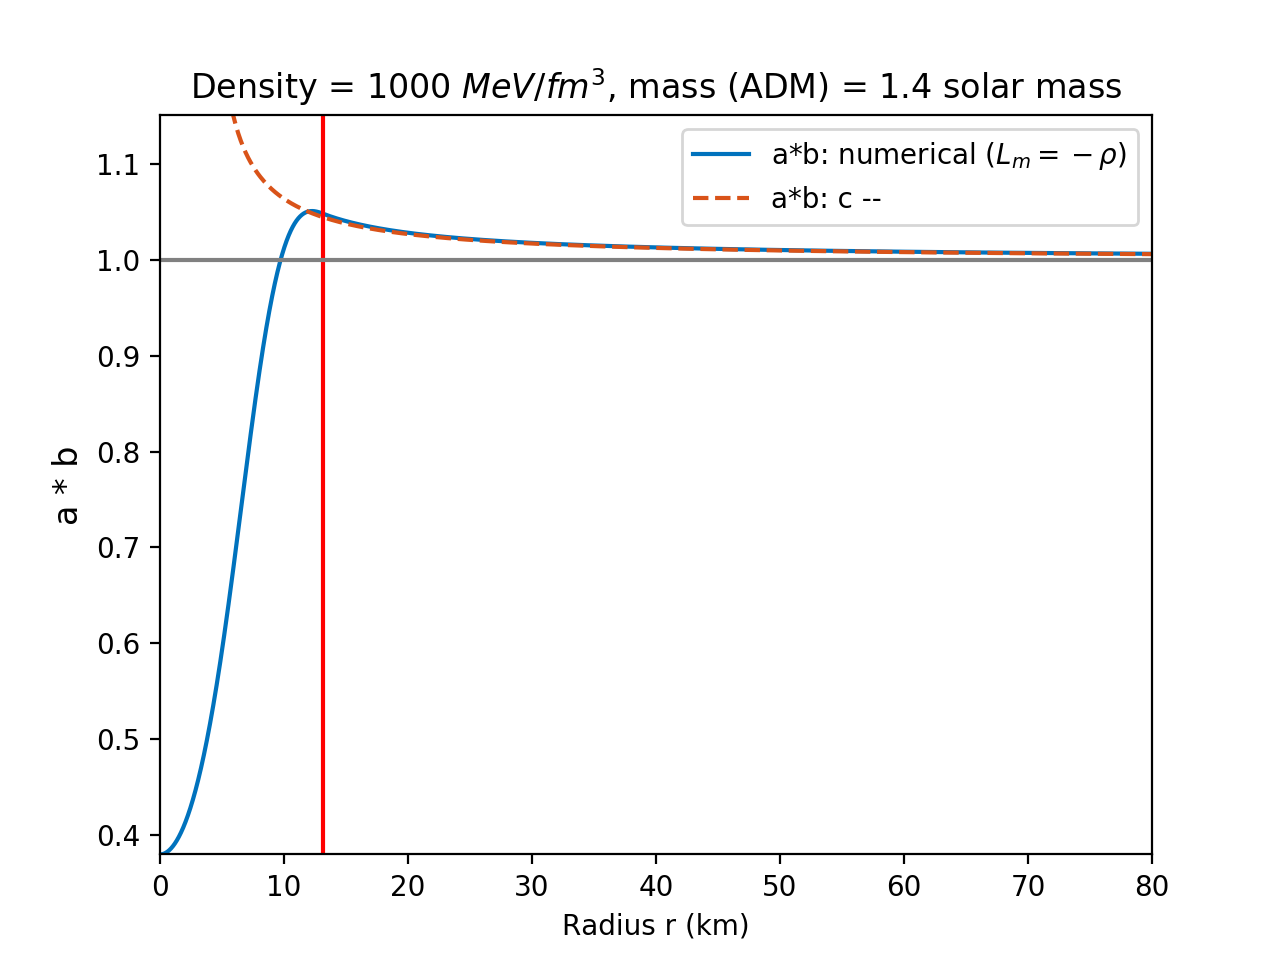
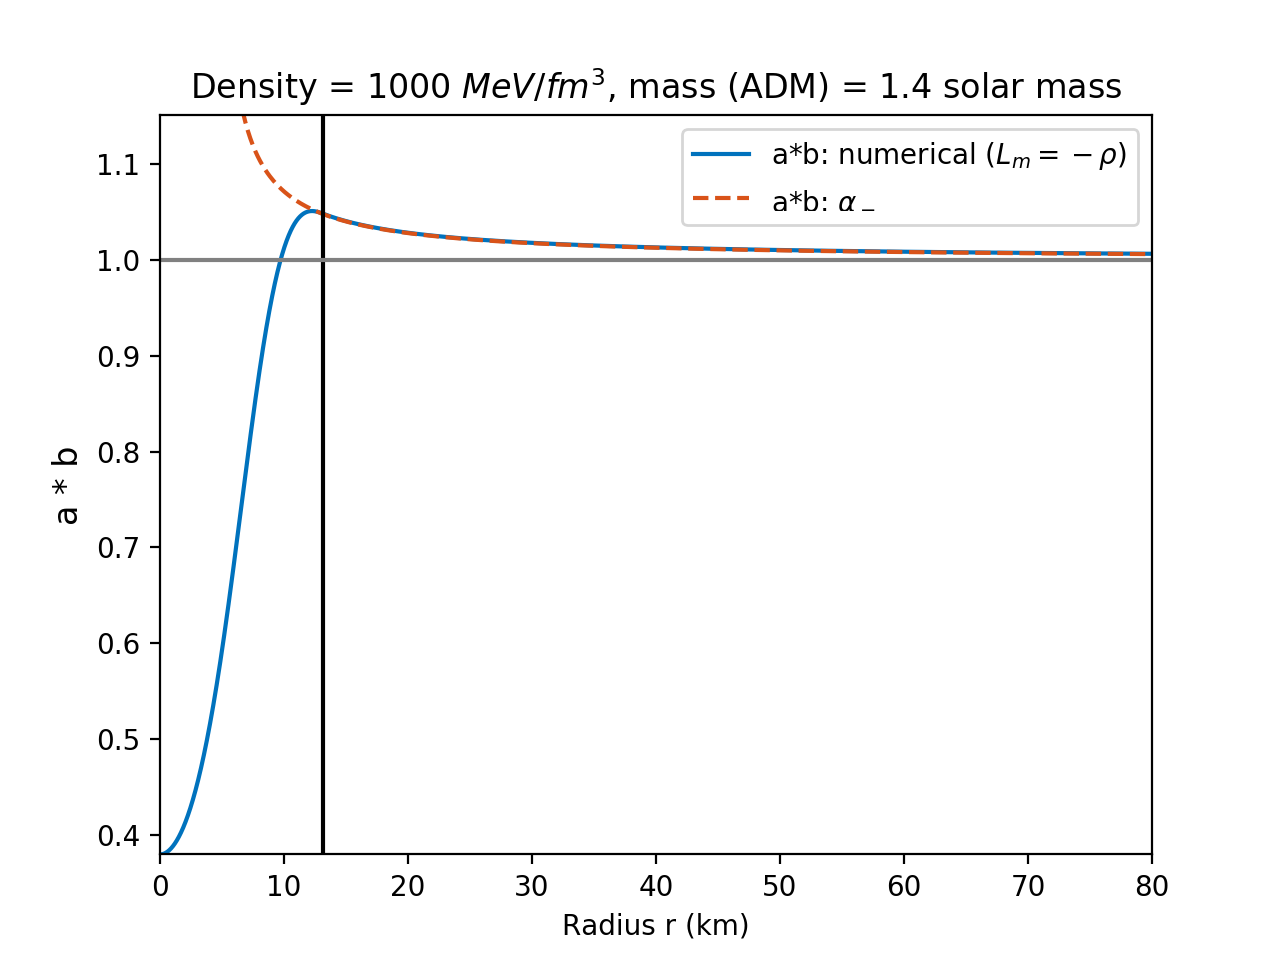
update figures that match draft v210507

diff --git a/Get_all_figures.py b/Get_all_figures.py
@@ -92,80 +92,53 @@ def run(opti,rho_cen):
     r_lim = 80000
     if option == 1:
         couleur = (0.85,0.325,0.098)
-        nom = 'c --'
+        nom = '$\\alpha_-$'
+        alphag = gamma
     elif option == 2:
         couleur = (0.929,0.694,0.125)
-        nom = 'c -+'
+        nom = '$\\alpha_+$'
+        alphag = - gamma
 
-    return (r,a,b,phi,rho_u,a_u,phi_u,b_u,couleur,nom, comment,radiusStar,r_lim,descr,mass_ADM,rho_cen)
-
-
-# In[3]:
+    return (r,a,b,phi,rho_u,a_u,phi_u,b_u,couleur,nom, comment,radiusStar,r_lim,descr,mass_ADM,rho_cen,alphag)
 
 
-def make_plots(option,r,a,b,phi,rho_u,a_u,phi_u,b_u,couleur,nom, comment,radiusStar,r_lim,descr,mass_ADM,rho_cen):
-    plt.plot(r*1e-3,a,label=f'a: numerical ({comment})',color=(0.,0.447,0.741))
-    plt.plot(rho_u*1e-3,a_u,linestyle='dashed',label = f'a: {nom}',color = couleur)
-    plt.axvline(x=radiusStar*1e-3, color='r')
-    plt.xlim([0,r_lim*1e-3])
-    plt.ylim([a[0],1])
-    plt.xlabel('Radius r (km)')
-    plt.ylabel('a', fontsize=12)
-    plt.title(f'Density = {rho_cen} $MeV/fm^3$, mass (ADM) = {mass_ADM:.1f} solar mass', loc='center')
-    plt.legend()
-    plt.savefig(f'figures/a_{descr}_{rho_cen:.0f}_{mass_ADM:.1f}.png', dpi = 200)
-    plt.show()
+# In[10]:
+
+
+def make_plots(option,r,a,b,phi,rho_u,a_u,phi_u,b_u,couleur,nom, comment,radiusStar,r_lim,descr,mass_ADM,rho_cen,gamma):
+
 
     a_interpol = interp1d(rho_u, a_u, fill_value="extrapolate")
     diff_a = (a_interpol(r)-a) / a
 
 
-    plt.plot(r*1e-3,diff_a*100,label=f'a (numerical({comment}) - {nom}) in %',color=(0.,0.447,0.741))
-    plt.axvline(x=radiusStar*1e-3, color='r')
-    plt.axhline(y= 0, color = 'gray')
-    plt.xlim([0,r_lim*1e-3])
-    # plt.ylim([-0.01,0.01])
-    plt.ylim([-1,1])
-    plt.xlabel('Radius r (km)')
-    plt.ylabel('(a_num - a_ana) %', fontsize=12)
-    plt.title(f'Density = {rho_cen} $MeV/fm^3$, mass (ADM) = {mass_ADM:.1f} solar mass', loc='center')
-    plt.legend()
-    plt.savefig(f'figures/diff_a_{descr}_{rho_cen:.0f}_{mass_ADM:.1f}.png', dpi = 200)
-    plt.show()
-
-    plt.plot(r*1e-3,b,label=f'b: numerical ({comment})',color=(0.,0.447,0.741))
-    plt.plot(rho_u*1e-3,b_u,linestyle='dashed',label = f'b: {nom}',color = couleur)
-    plt.axvline(x=radiusStar*1e-3, color='r')
-    plt.xlim([0,r_lim*1e-3])
-    plt.ylim([b[0],max(b)+0.1])
-    plt.xlabel('Radius r (km)')
-    plt.ylabel('b', fontsize=12)
-    plt.title(f'Density = {rho_cen} $MeV/fm^3$, mass (ADM) = {mass_ADM:.1f} solar mass', loc='center')
-    plt.legend()
-    plt.savefig(f'figures/b_{descr}_{rho_cen:.0f}_{mass_ADM:.1f}.png', dpi = 200)
-    plt.show()
-
     b_interpol = interp1d(rho_u, b_u, fill_value="extrapolate")
     diff_b = (b_interpol(r)-b) / b
 
+    ab_interpol = interp1d(rho_u, a_u * b_u, fill_value="extrapolate")
+    diff_ab = (ab_interpol(r)- a * b) / (a * b)
 
-    plt.plot(r*1e-3,diff_b*100,label=f'b (numerical({comment}) - {nom}) in %',color=(0.,0.447,0.741))
-    plt.axvline(x=radiusStar*1e-3, color='r')
-    plt.axhline(y= 0, color = 'gray')
+    phi_interpol = interp1d(rho_u, phi_u, fill_value="extrapolate")
+    diff_phi = (phi_interpol(r)-phi) / phi
+
+
+    plt.plot(r*1e-3,a*b,label=f'a*b: numerical ({comment})',color=(0.,0.447,0.741))
+    plt.plot(rho_u*1e-3,a_u*b_u,linestyle='dashed',label = f'a*b: {nom}',color = couleur)
+    plt.axvline(x=radiusStar*1e-3, color='black')
+    plt.axhline(y= 1, color = 'gray')
     plt.xlim([0,r_lim*1e-3])
-    # plt.ylim([-0.01,0.01])
-#     plt.ylim([-5,5])
-    plt.ylim([-3,3])
+    plt.ylim([a[0]*b[0],max(a*b)+0.1])
     plt.xlabel('Radius r (km)')
-    plt.ylabel('(b_num - b_ana) %', fontsize=12)
+    plt.ylabel('a * b', fontsize=12)
     plt.title(f'Density = {rho_cen} $MeV/fm^3$, mass (ADM) = {mass_ADM:.1f} solar mass', loc='center')
     plt.legend()
-    plt.savefig(f'figures/diff_b_{descr}_{rho_cen:.0f}_{mass_ADM:.1f}.png', dpi = 200)
+    plt.savefig(f'figures/ab_{descr}_{rho_cen:.0f}_{mass_ADM:.1f}.png', dpi = 200)
     plt.show()
+
 
     plt.plot(r*1e-3,phi,label=f'$\\Phi$: numerical({comment})',color=(0.,0.447,0.741))
     plt.plot(rho_u*1e-3,phi_u,linestyle='dashed',label= f'$\\Phi$: {nom}',color= couleur)
-    plt.axvline(x=radiusStar*1e-3, color='r')
+    plt.axvline(x=radiusStar*1e-3, color='black')
     plt.xlim([0,r_lim*1e-3])
     if option == 1:
         limitaY = [phi[0],1.01]
@@ -179,75 +152,126 @@ def make_plots(option,r,a,b,phi,rho_u,a_u,phi_u,b_u,couleur,nom, comment,radiusS
     plt.savefig(f'figures/phi_{descr}_{rho_cen:.0f}_{mass_ADM:.1f}.png', dpi = 200)
     plt.show()
 
-    phi_interpol = interp1d(rho_u, phi_u, fill_value="extrapolate")
-    diff_phi = (phi_interpol(r)-phi) / phi
-
-
-    plt.plot(r*1e-3,diff_phi*100,label=f'$\\Phi$ (numerical({comment}) - {nom}) in %',color=(0.,0.447,0.741))
-    plt.axvline(x=radiusStar*1e-3, color='r')
+    
+    diff_a_wo_offset = diff_a - diff_a[-1]  
+    diff_b_wo_offset = diff_b - diff_b[-1]  
+    diff_phi_wo_offset = diff_phi - diff_phi[-1]
+    
+    plt.plot(r*1e-3,diff_a_wo_offset*100,label=f'$a$ (numerical({comment}) - {nom}) in %\n(Offset = {diff_a[-1]*100:.2f}%)',color=(0.85,0.325,0.098))
+#     plt.plot(r*1e-3,diff_b_wo_offset*100,label=f'$b$ (numerical({comment}) - {nom}) in %\n(Offset = {diff_b[-1]*100:.2f}\%)',color=(0.,0.447,0.741))
+    plt.plot(r*1e-3,diff_b*100,label=f'$b$ (numerical({comment}) - {nom}) in %',color=(0.,0.447,0.741), linestyle='dashed')
+#     plt.plot(r*1e-3,diff_phi*100,label=f'$\\Phi$ (numerical({comment}) - {nom}) in %',color=(0.929,0.694,0.125), linestyle='dashdot')
+    plt.plot(r*1e-3,diff_phi_wo_offset*100,label=f'$\\Phi$ (numerical({comment}) - {nom}) in %\n(Offset = {diff_phi[-1]*100:.2f}%)',color=(0.929,0.694,0.125), linestyle='dashdot')
+    plt.axvline(x=radiusStar*1e-3, color='black')
     plt.axhline(y= 0, color = 'gray')
     plt.xlim([0,r_lim*1e-3])
-    # plt.ylim([-0.01,0.01])
-    plt.ylim([-1,1])
-    plt.xlabel('Radius r (km)')
-    plt.ylabel('($\\Phi$_num - $\\Phi$_ana) %', fontsize=12)
-    plt.title(f'Density = {rho_cen} $MeV/fm^3$, mass (ADM) = {mass_ADM:.1f} solar mass', loc='center')
-    plt.legend()
-    plt.savefig(f'figures/diff_phi_{descr}_{rho_cen:.0f}_{mass_ADM:.1f}.png', dpi = 200)
-    plt.show()
-
-    plt.plot(r*1e-3,a*b,label=f'a*b: numerical ({comment})',color=(0.,0.447,0.741))
-    plt.plot(rho_u*1e-3,a_u*b_u,linestyle='dashed',label = f'a*b: {nom}',color = couleur)
-    plt.axvline(x=radiusStar*1e-3, color='r')
-    plt.axhline(y= 1, color = 'gray')
-    plt.xlim([0,r_lim*1e-3])
-    plt.ylim([a[0]*b[0],max(a*b)+0.1])
-    plt.xlabel('Radius r (km)')
-    plt.ylabel('a * b', fontsize=12)
-    plt.title(f'Density = {rho_cen} $MeV/fm^3$, mass (ADM) = {mass_ADM:.1f} solar mass', loc='center')
-    plt.legend()
-    plt.savefig(f'figures/ab_{descr}_{rho_cen:.0f}_{mass_ADM:.1f}.png', dpi = 200)
-    plt.show()
-
-    ab_interpol = interp1d(rho_u, a_u * b_u, fill_value="extrapolate")
-    diff_ab = (ab_interpol(r)- a * b) / (a * b)
-
-
-    plt.plot(r*1e-3,diff_ab*100,label=f'a*b (numerical({comment}) - {nom}) in %',color=(0.,0.447,0.741))
-    plt.axvline(x=radiusStar*1e-3, color='r')
-    plt.axhline(y= 0, color = 'gray')
-    plt.xlim([0,r_lim*1e-3])
-    # plt.ylim([-0.01,0.01])
-#     plt.ylim([-1,1])
-    plt.ylim([-5,5])
-    plt.xlabel('Radius r (km)')
-    plt.ylabel('a*b (numerical - analytical) %', fontsize=12)
-    plt.title(f'Density = {rho_cen} $MeV/fm^3$, mass (ADM) = {mass_ADM:.1f} solar mass', loc='center')
-    plt.legend()
-    plt.savefig(f'figures/diff_ab_{descr}_{rho_cen:.0f}_{mass_ADM:.1f}.png', dpi = 200)
-    plt.show()
-
-    plt.plot(r*1e-3,diff_a*100,label=f'$a$ (numerical({comment}) - {nom}) in %',color=(0.85,0.325,0.098))
-    plt.plot(r*1e-3,diff_b*100,label=f'$b$ (numerical({comment}) - {nom}) in %',color=(0.,0.447,0.741))
-    plt.plot(r*1e-3,diff_phi*100,label=f'$\\Phi$ (numerical({comment}) - {nom}) in %',color=(0.929,0.694,0.125))
-    plt.axvline(x=radiusStar*1e-3, color='r')
-    plt.axhline(y= 0, color = 'gray')
-    plt.xlim([0,r_lim*1e-3])
-    plt.ylim([-5,5])
+    plt.ylim([-0.1,0.1])
     plt.xlabel('Radius r (km)')
     plt.ylabel('(numerical - analytical) %', fontsize=12)
     plt.title(f'Density = {rho_cen} $MeV/fm^3$, mass (ADM) = {mass_ADM:.1f} solar mass', loc='center')
     plt.legend()
     plt.legend()
-    plt.savefig(f'figures/diff_a_b_phi_{descr}_{rho_cen:.0f}_{mass_ADM:.1f}.png', dpi = 200)
+    plt.savefig(f'figures/diff_awo_b_phi_{descr}_{rho_cen:.0f}_{mass_ADM:.1f}.png', dpi = 200,bbox_inches='tight')
     plt.show()
-# In[4]:
 
 
-for i in [2]:
-    for k in [500]:
-        r,a,b,phi,rho_u,a_u,phi_u,b_u,couleur,nom, comment,radiusStar,r_lim,descr,mass_ADM,rho_cen  = run(i,k)
-        make_plots(i,r,a,b,phi,rho_u,a_u,phi_u,b_u,couleur,nom, comment,radiusStar,r_lim,descr,mass_ADM,k)
+# In[11]:
+
+
+for i in [1,2]:
+#     for k in [100,500,1000,2000,4000,8000]:
+    for k in [1000]:
+        r,a,b,phi,rho_u,a_u,phi_u,b_u,couleur,nom, comment,radiusStar,r_lim,descr,mass_ADM,rho_cen, gamma  = run(i,k)
+        make_plots(i,r,a,b,phi,rho_u,a_u,phi_u,b_u,couleur,nom, comment,radiusStar,r_lim,descr,mass_ADM,k,gamma)
+
+
+# In[5]:
+
+
+def diff_at_radius(density,opti):
+
+    central_density = density
+    option = opti
+
+    r,a,b,phi,rho_u,a_u,phi_u,b_u,couleur,nom, comment,radiusStar,r_lim,descr,mass_ADM,rho_cen,gamma  = run(option,central_density)
+
+    ab = a * b
+
+    a_interpol = interp1d(rho_u, a_u, fill_value="extrapolate")
+    b_interpol = interp1d(rho_u, b_u, fill_value="extrapolate")
+    ab_interpol = interp1d(rho_u, a_u * b_u, fill_value="extrapolate")
+
+    phi_interpol = interp1d(rho_u, phi_u, fill_value="extrapolate")
+
+
+
+    diff_a = (a_interpol(r)*a[-1]/a_interpol(r)[-1]-a) / a 
+    diff_b = (b_interpol(r)*b[-1]/b_interpol(r)[-1]-b) / b
+    diff_ab = (ab_interpol(r)*ab[-1]/ab_interpol(r)[-1]-ab) / ab
+
+    diff_phi = (phi_interpol(r)*phi[-1]/phi_interpol(r)[-1]-phi) / phi 
+
+    i_radius = min(range(len(r)), key=lambda i: abs(r[i]-radiusStar))
+
+    R_diff_a = diff_a[i_radius]
+    R_diff_b = diff_b[i_radius]
+    R_diff_ab = diff_ab[i_radius]
+
+    R_diff_phi = diff_phi[i_radius]
+    
+    return R_diff_a,R_diff_b, R_diff_ab, R_diff_phi
+
+
+# In[14]:
+
+
+def make_gamma_beta_plots(n,opti):
+    nspace = n
+    option = opti
+    
+    if opti == 1:
+        descr = 'rho'
+        comment = '$L_m = - \rho$'
+    elif opti == 2:
+        descr = 'P'
+        comment ='$L_m = P$'
+    else:
+        print('not a valid option, try 1 or 2')
+    
+    den_space = np.linspace(100,8000,num=n)
+    
+    gamma_vec = np.array([])
+    beta_vec = np.array([])
+    
+    for den in den_space:
+        r,a,b,phi,rho_u,a_u,phi_u,b_u,couleur,nom, comment,radiusStar,r_lim,descr,mass_ADM,rho_cen,gamma  = run(option,den)
+        gamma_vec = np.append(gamma_vec,gamma)
+        beta_vec = np.append(beta_vec,(1-gamma**2)/(1+gamma**2))
+    
+    
+    fig,ax = plt.subplots()
+    plt.xlabel('Cetral density ($MeV/fm^3$)')
+    ax.plot(den_space,gamma_vec, label=f'$\\alpha$ ({comment})', color = 'tab:blue')
+    ax.set_ylabel('$\\alpha$', fontsize=12, color = 'tab:blue')
+    
+    ax2=ax.twinx()
+    ax2.plot(den_space,beta_vec, label=f'$\\beta$ ({comment})', color = 'tab:green', linestyle = 'dashed')
+    ax2.set_ylabel('$\\beta$', fontsize=12, color = 'tab:green')
+    
+    fig.legend(loc=0, bbox_to_anchor=(0.9, 0.7))
+    plt.savefig(f'figures/alpha_beta_{nspace}_{descr}.png', dpi = 200,bbox_inches='tight')
+    plt.show()
 
 
 # In[ ]:
+
+
+make_gamma_beta_plots(50,1)
+make_gamma_beta_plots(50,2)
+
+
+# In[ ]:
+
+
+
+
